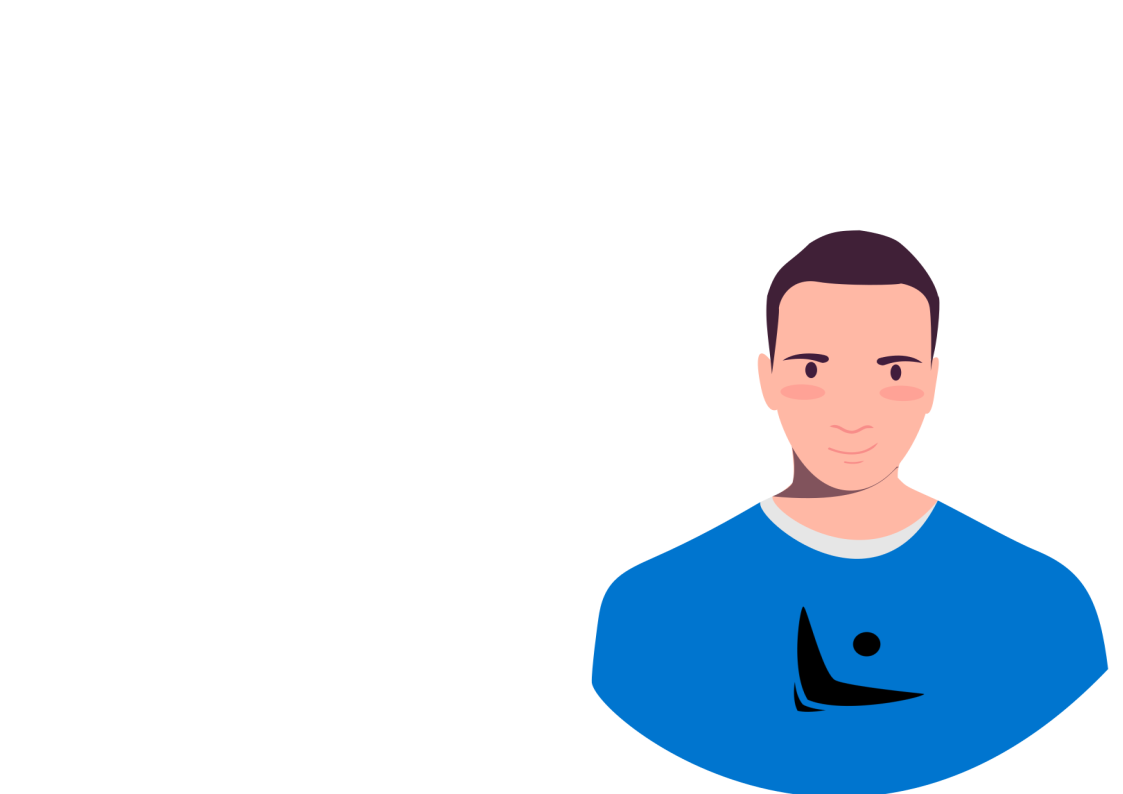
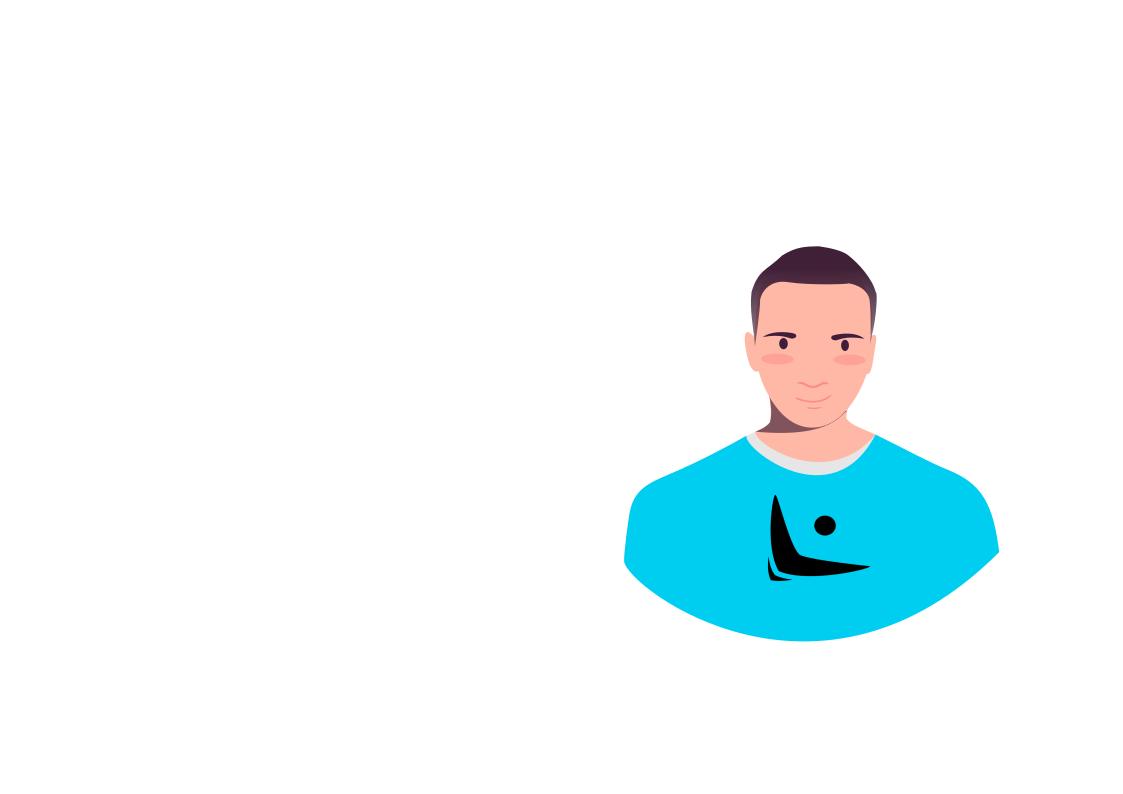
Construction du page à propos de moi

Changed region(s): [[0.5298, 0.272, 0.9973, 1.0]]

diff --git a/CSS/style.css b/CSS/style.css
@@ -28,10 +28,11 @@ header{
     display: flex;
     align-items: center;
     justify-content: center;
-    background: transparent;
+    background: white;
     padding: 22px 20%;
     border-bottom: 1px solid transparent;
     transition: all .45 ease;
+    box-shadow: 0 6px 15px rgba(206, 212, 218, 0.3);
 }
 .logo img{
     color: var(--main-color);
@@ -96,7 +97,7 @@ section{
     font-weight: 700;
     line-height: 1.1;
 }
-.accueil-text h3 span{
+span{
     color: var(--main-color);
 }
 .button{
@@ -135,4 +136,36 @@ section{
     -webkit-transition: all 0.3s;
     transition: all 0.3s;
     text-decoration: none;
-  }
+}
+.socials .social-item:hover{
+    background: var(--main-color);
+    color: var(--bg-color);
+}
+.about{
+    display: grid;
+    grid-template-columns: repeat(2,1fr);
+    align-items: center;
+    gap: 1.5rem;
+}
+.about-img img{
+    max-width: 530px;
+    height: auto;
+    width: 100%;
+}
+.about-text h2{
+    font-size: var(--h2-font);
+    line-height: 1;
+}
+.about-text h4{
+    font-size: 24px;
+    font-weight: 600;
+    color: var(--text-color);
+    line-height: 1.7;
+    margin: 15px 0 30px;
+
+}
+.about-text p{
+    font-size: var(--p-font);
+    line-height: 1.8;
+    margin-bottom: 4rem;
+}

diff --git a/index.html b/index.html
@@ -40,6 +40,21 @@
             </div>
         </div>
     </section>
+
+    <!--A propos-->
+    <section class="about" id="about">
+        <div class="about-img">
+            <img src="img/about-image.png" alt="">
+        </div>
+        <div class="about-text">
+            <h2>A propos de moi</h2>
+            <h4>Je suis un développeur <span>Backend</span></h4>
+            <p>
+                En tant que développeur backend, mon rôle est essentiel dans la création et le bon fonctionnement des applications et des systèmes web. J'ai une expertise technique solide dans des langages tels que Python,et PHP, ainsi que dans l'utilisation de frameworks et d'outils de développement backend.En tant que développeur backend, je suis passionné par le développement logiciel et j'accorde une grande importance aux détails. Je suis constamment à l'affût des dernières tendances et des meilleures pratiques, et je m'efforce de produire un code propre, bien documenté et facilement maintenable.
+            </p>
+        </div>
+
+    </section>
     
 </body>
 </html>
